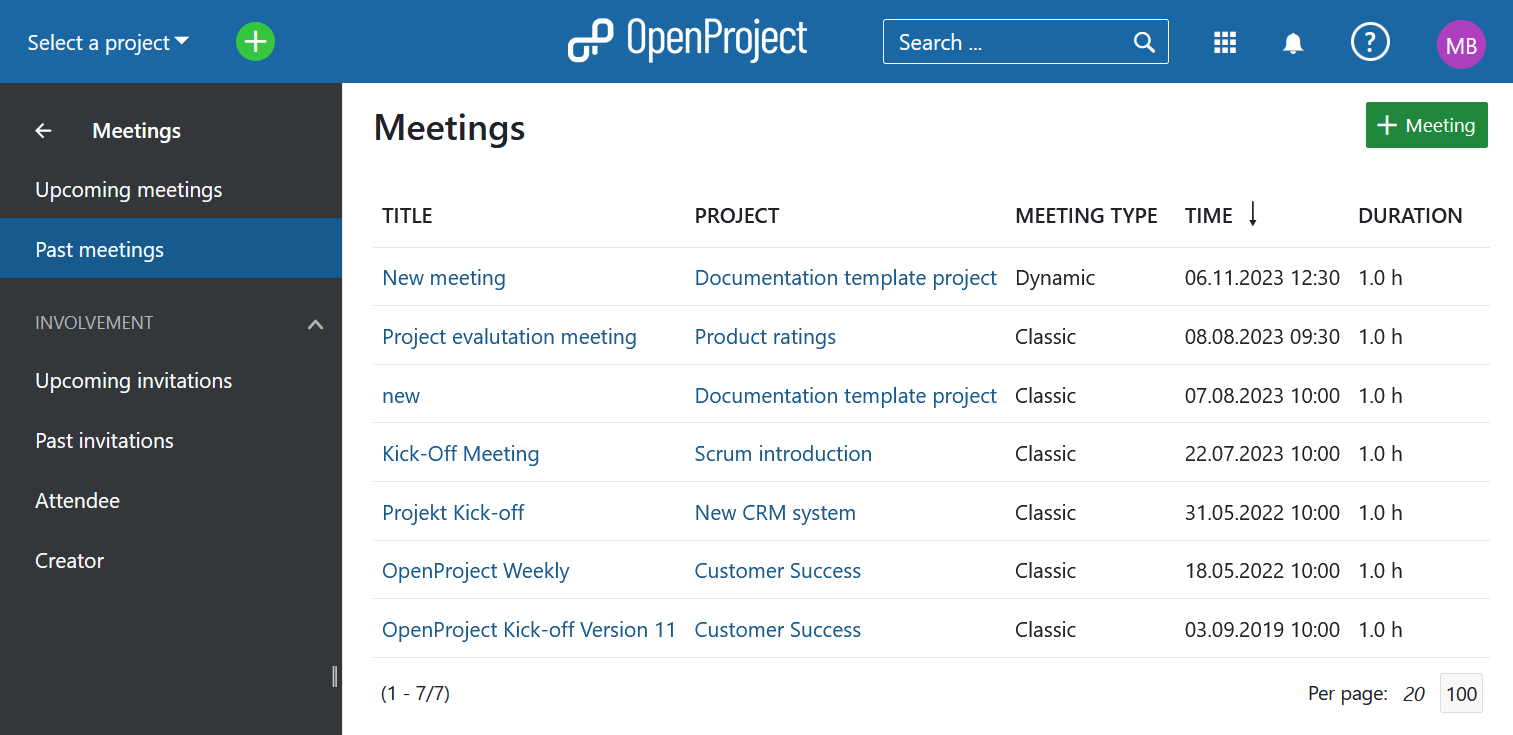
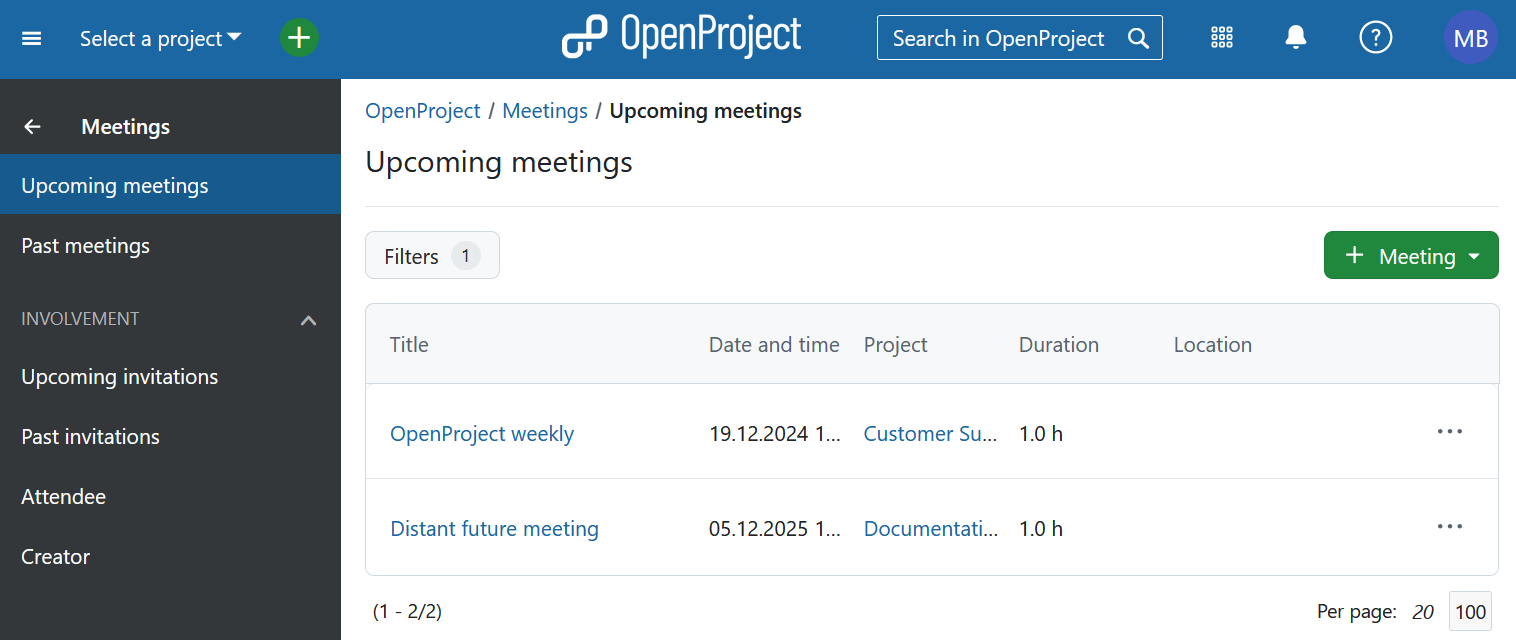
[#59799] 15.1 Documentation: Primerised Meeting index pages  https://community.openproject.org/work_packages/59799
[#59799] 15.1 Documentation: Primerised Meeting index pages

https://community.openproject.org/work_packages/59799

diff --git a/docs/user-guide/meetings/dynamic-meetings/README.md b/docs/user-guide/meetings/dynamic-meetings/README.md
@@ -41,8 +41,20 @@ The menu on the left will allow you to filter for upcoming or past meetings. You
 
 ![Meetings overview in openproject global modules](openproject_userguide_dynamic_meetings_overview.png)
 
+You can also use the meetings filters to refine the list of meetings based on the following criteria: 
+
+- **Attended user** - shows meetings that a specific user attended
+- **Author** - shows meetings that a specific user created
+- **Invited user** - shows meetings that a specific user was invited to
+- **Project** - shows meetings for a specific project (this will only be displayed in the global module view, i.e. not within a specific project)
+- **Time** - shows past or upcoming meetings
+
+![Filter the list of dynamic meetings in OpenProject](openproject_dynamic_meetings_filters.png)
+
 > [!TIP]
 > If you are interested in how the Meetings module is used by the OpenProject team, please take a look at [this blog article](https://www.openproject.org/blog/meeting-management-example/).
+
+
 
 ## Create and edit dynamic meetings
 
@@ -54,27 +66,29 @@ You can either create a meeting from within a project or from the global **Meeti
 > [!NOTE]
 > Dynamic meetings were introduced in OpenProject 13.1. At the moment, the Meetings module lets you create [classic](../classic-meetings) or dynamic meetings but please keep in mind that the ability to create [classic meetings](../classic-meetings) will eventually be removed from OpenProject.
 
-To create a new meeting, click the green **+ Meeting** button in the upper right corner.
+To create a new meeting, click the green **+ Meeting** button in the upper right corner and select if you want to create a dynamic or a classic meeting.
 
-![Create new meeting in OpenProject](openproject_userguide_create_new_meeting.png)
+![Create new meeting in OpenProject](openproject_dynamic_meetings_create_button.png)
 
-Enter your meeting's title, type, location, start date and duration. You can also choose if you want to invite meeting participants via email after the meeting has been created (this option is disabled by default). 
+Enter your meeting's title, type, location, start date and duration. 
 
 If you are creating a meeting from a global module you will first need to select a project to which the meeting is attributed. After you have selected a project, the list of potential participants (project members) will appear for you to select who to invite. After the meeting you can note who attended the meeting.
 
-Click the blue **Create** button to save your changes.
+![Create a new dynamic meeting in OpenProject](openproject_dynamic_meetings_new_dynamic_meeting_form.png)
+
+Click the **Create meeting** button to save your changes. You can proceed to adding more meeting details.
 
 ### Edit a meeting
 
 If you want to change the details of a meeting, for example its time or location, open the meetings details view by clicking on pencil icon next to the **Meeting details**.
 
-![edit-meeting](openproject_userguide_edit_dynamic_meeting.png)
+![Edit a dynamic meeting in OpenProject](openproject_userguide_edit_dynamic_meeting_icon.png)
 
 An edit screen will be displayed, where you can adjust the date, time, duration and location of the meeting.
 
 ![edit-meeting](openproject_userguide_edit_screen.png)
 
-Do not forget to save the changes by clicking the green **Save** button. Cancel will bring you back to the details view.
+Do not forget to save the changes by clicking the **Save** button. Cancel will bring you back to the details view.
 
 > [!TIP]
 > If someone else edits or updates the current meeting page at the same time and saves their changes, you and all other users on the same page will be notified of this with a small banner at the top of the page. Click the **Reload** button to load the updated version of the page.
@@ -233,9 +247,11 @@ You can copy an existing meeting. This is useful if you have recurring meetings.
 
 ![Copy a dynamic meeting in OpenProject](openproject_dynamic_meetings_copy_meeting.png)
 
-A screen will open, which will allow you adjust the name, time, location and further details of the copied meeting. By default, the date for the copied meeting will be moved forward by one week from the original meeting's date. You also have an option of copying the agenda and attachments. If you copy a closed meeting, the new meeting status will automatically be set to open. Don't forget to **Save** the copied meeting by clicking the green **Create** button.
+A modal will open, which will allow you adjust the title, time, location and further details of the copied meeting. By default, the date for the copied meeting will be set to the next day. You also have an option of copying the agenda, attachments and the list of participants. You also have an option to email all participants after the meeting was copied.
 
-![Edit details of a copied dynamic meeting in OpenProject](openproject_dynamic_meetings_copy_meeting_details.png)
+If you copy a closed meeting, the new meeting status will automatically be set to open. Don't forget to **Save** the copied meeting by clicking the **Create** button.
+
+![Edit details of a copied dynamic meeting in OpenProject](openproject_dynamic_meetings_copy_modal.png)
 
 ## Delete a meeting
 

diff --git a/docs/user-guide/meetings/classic-meetings/README.md b/docs/user-guide/meetings/classic-meetings/README.md
@@ -13,7 +13,8 @@ Meetings in OpenProject allow you to manage and document your project meetings, 
 <div class="glossary">
 **Meetings** is defined as a module that allows the organization of meetings. The module has to be activated in the project settings in order to be displayed in the side navigation.
 </div>
-> *Note:* [Dynamic meetings](../dynamic-meetings) were introduced in OpenProject 13.1. At the moment, the Meetings module lets you create classic or dynamic meetings but please keep in mind that the ability to create classic meetings will eventually be removed from OpenProject.
+> [!NOTE]
+> [Dynamic meetings](../dynamic-meetings) were introduced in OpenProject 13.1. At the moment, the Meetings module lets you create classic or dynamic meetings but please keep in mind that the ability to create classic meetings will eventually be removed from OpenProject.
 
 | Topic                                                                     | Content                                     |
 |---------------------------------------------------------------------------|---------------------------------------------|
@@ -30,20 +31,26 @@ Meetings in OpenProject allow you to manage and document your project meetings, 
 
 By selecting **Meetings** in the project menu on the left, you get an overview of all project meetings sorted by date. By clicking on a meeting name you can view further details of the meeting.
 
-**Note:** In order to be able to use the meetings plugin, the **Meetings module needs to be activated** in the [Project Settings](../../projects/project-settings/modules/).
+> [!NOTE]
+> In order to be able to use the meetings plugin, the **Meetings module needs to be activated** in the [Project Settings](../../projects/project-settings/modules/).
 
 ![Meetings module in OpenProject](meetings.png)
 
 ## Create a new meeting
 
-1. To create a new meeting, click the green **+ Meeting** button in the upper right corner.
-2. Enter your meeting title.
-3. Choose 'Classic meeting'.
-3. Enter meeting information, such as location, start date and duration.
-5. Select the meeting participants from the project members list.
-6. Click the **Create** button to save your changes.
+To create a new classic meeting, click the green **+ Meeting** button in the upper right corner and choose the respective option.
 
-![create-new-meeting](create-new-classic-meeting.png)
+![Button to create a new classic meeting in OpenProject](openproject_user_guide_create_classic_meeting_button.png)
+
+You can then specify the following:
+
+1. Enter your meeting title.
+2. Enter meeting information, such as location, start date and duration.
+3. Select the meeting participants from the project members list.
+4. Choose if you want to invite meeting participants via email after the meeting has been created (this option is disabled by default). 
+5. Click the **Create** button to save your changes.
+
+![Create a new classic meeting in OpenProject](openproject_user_guide_create_classic_meeting_form.png)
 
 ## Edit a meeting
 
@@ -61,7 +68,7 @@ You can **add participants** (Invitees and Attendees) to a meeting while being i
 
 You can see the list of all the project members under **Participants**. This list varies from project to project. If you select the field in the columns Invitees or Attendees, the selected project members will be notified automatically when an agenda or a meeting protocol is created.
 
-![participants](meeting-participants.png)
+![Edit meeting participants in OpenProject classic meetings](openproject_user_guide_create_classic_meeting_edit_participants.png)
 
 By removing the check mark you can remove project members from the meetings.
 
@@ -105,11 +112,14 @@ To add a meeting to a calendar, select the dropdown menu behind the three dots a
 
 If you have recurring meetings, such as a Jour Fixe, and want to simplify the process of creating meetings and agendas, you can **copy an existing meeting**. To do that select the meeting, open the dropdown menu behind the three dots and select **Copy**.
 
-![copy-meeting](copy-meeting.png)
+![Button to copy a classic meeting in OpenProject](copy-meeting.png)
 
-You can now edit the copied meeting and add the new details. Click the **Save** button to secure your changes.
+You can now edit the copied meeting details, specify if you want to copy the agenda or attachments and fine tune the participants list. Click the **Create** button to secure your changes.
 
-> **Note**: all the settings will be copied, except for the minutes, participants and meeting history. So if you want to keep the minutes as well, you have to copy it separately.
+> [!NOTE]
+> All the settings will be copied, except for the minutes and meeting history. So if you want to keep the minutes as well, you have to copy them separately.
+
+![Edit a copied classic meeting in OpenProject](openproject_user_guide_create_classic_meeting_copy_form.png)
 
 ## Delete a meeting
 
